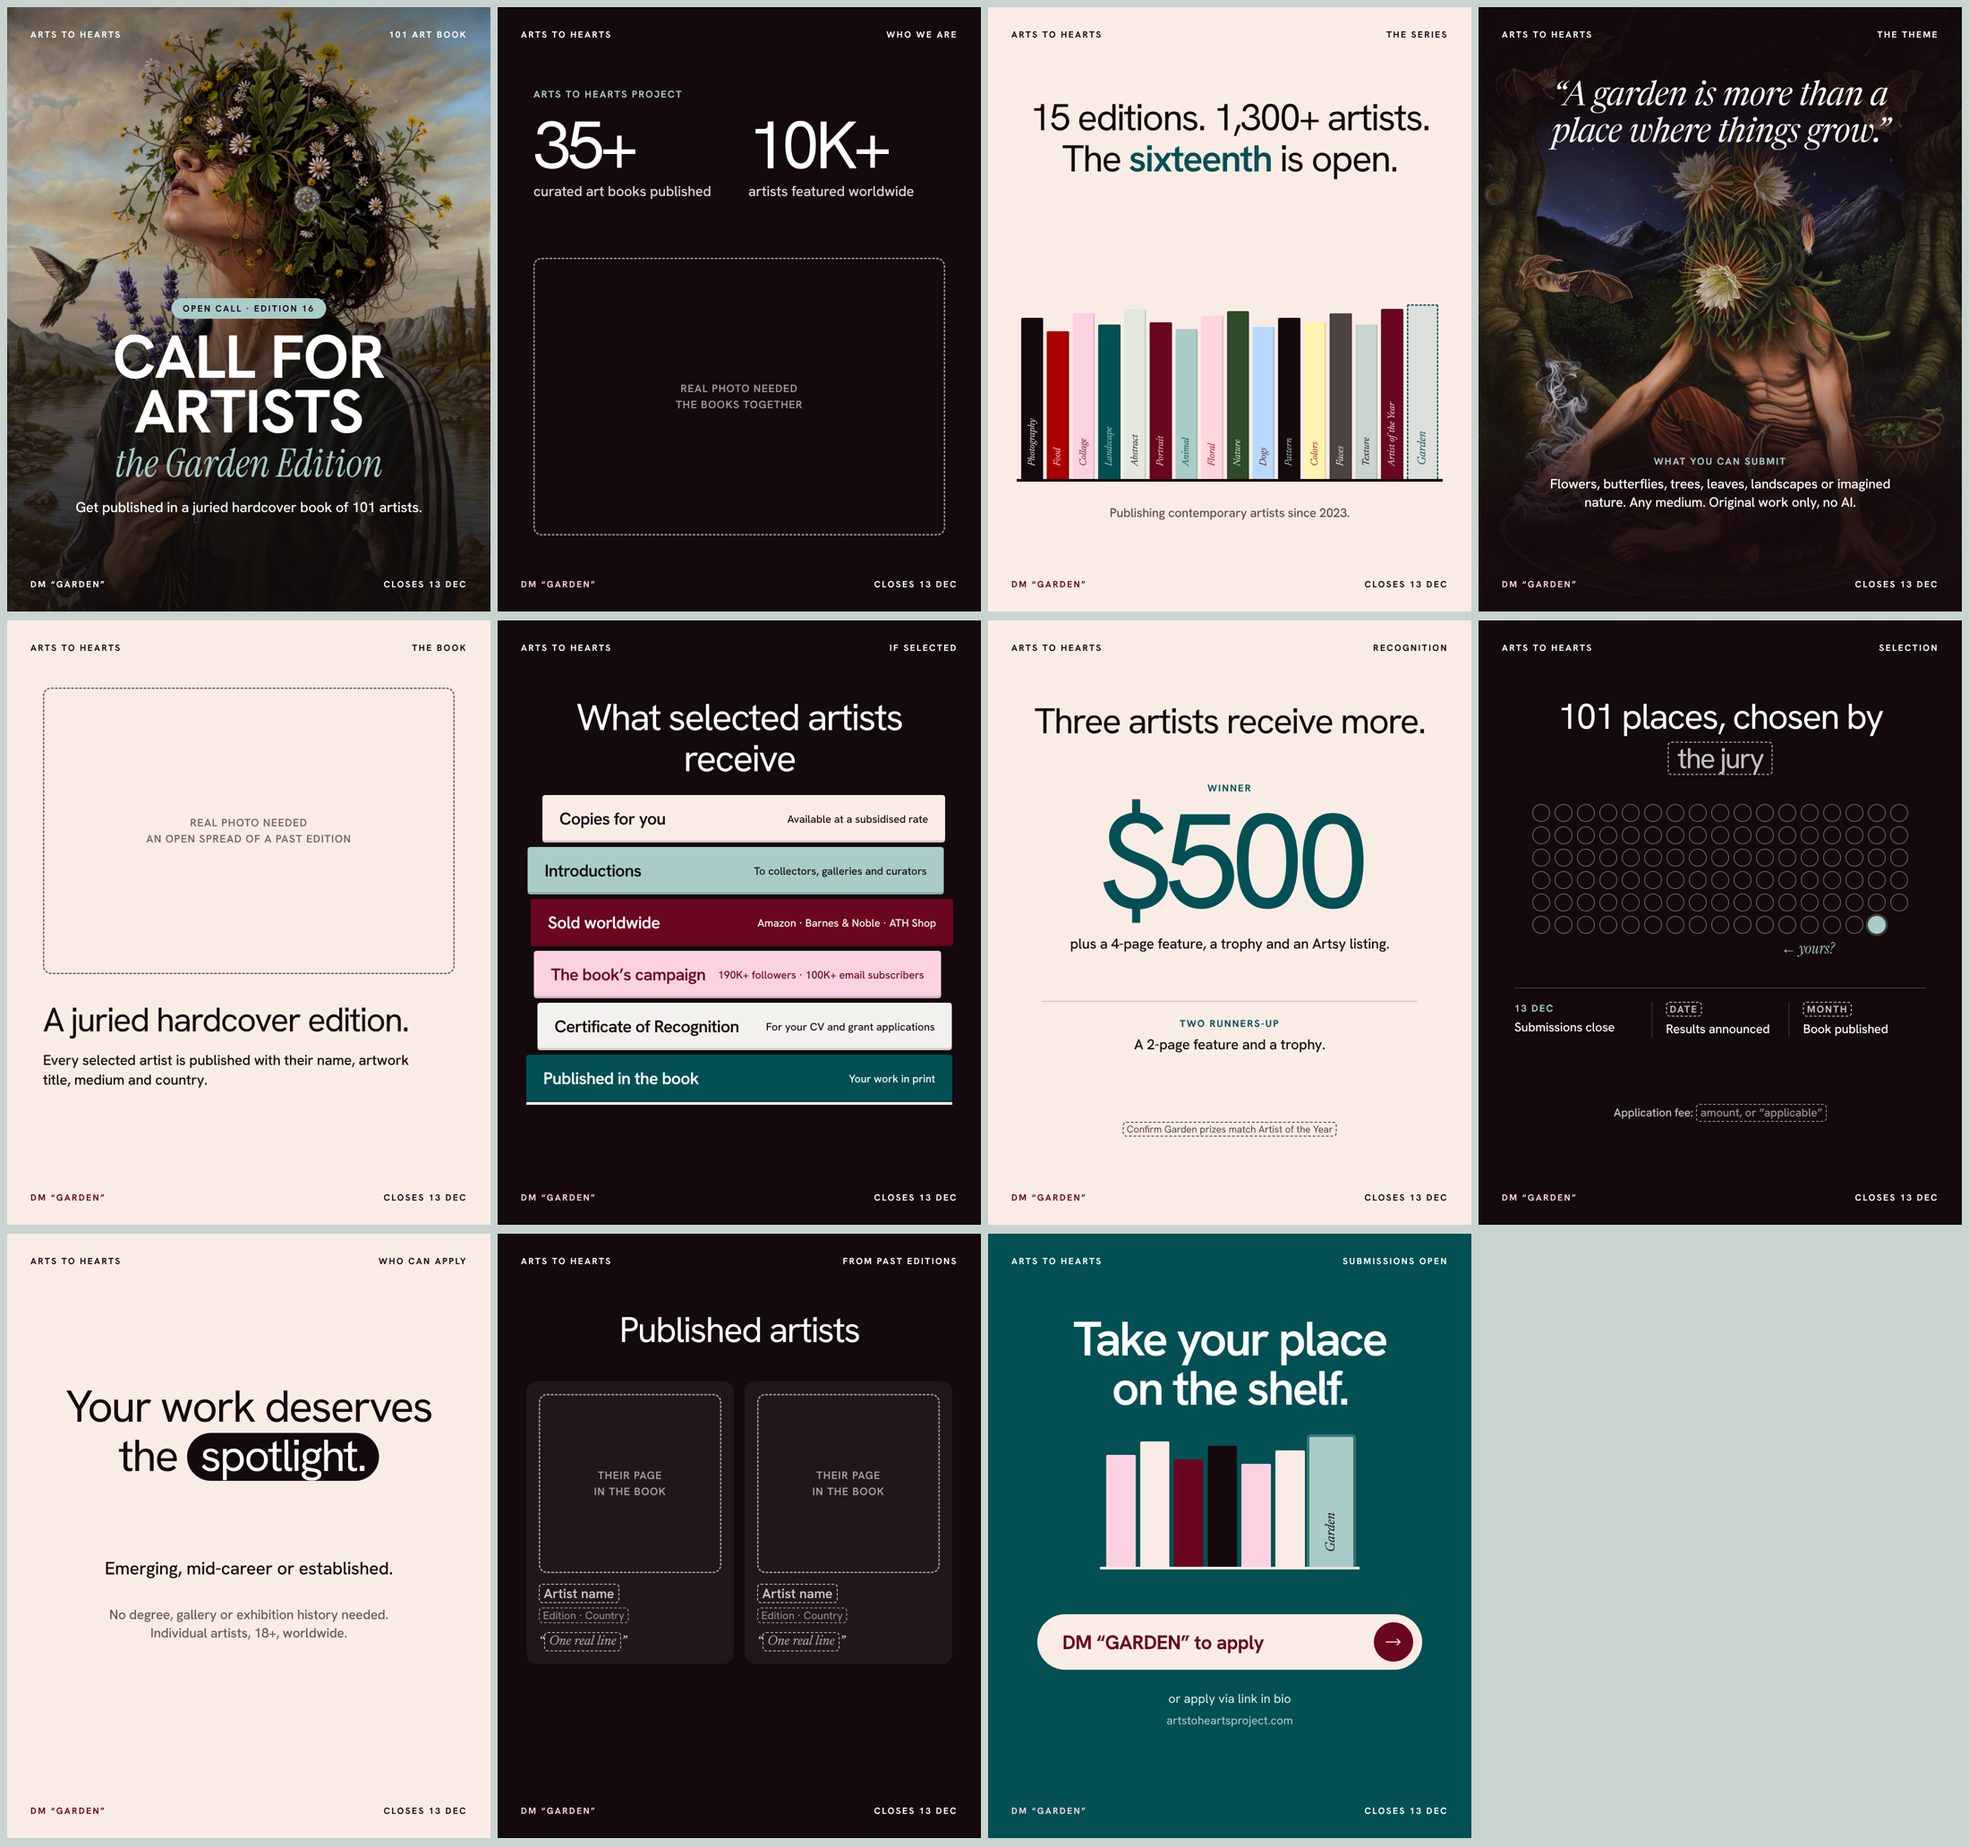
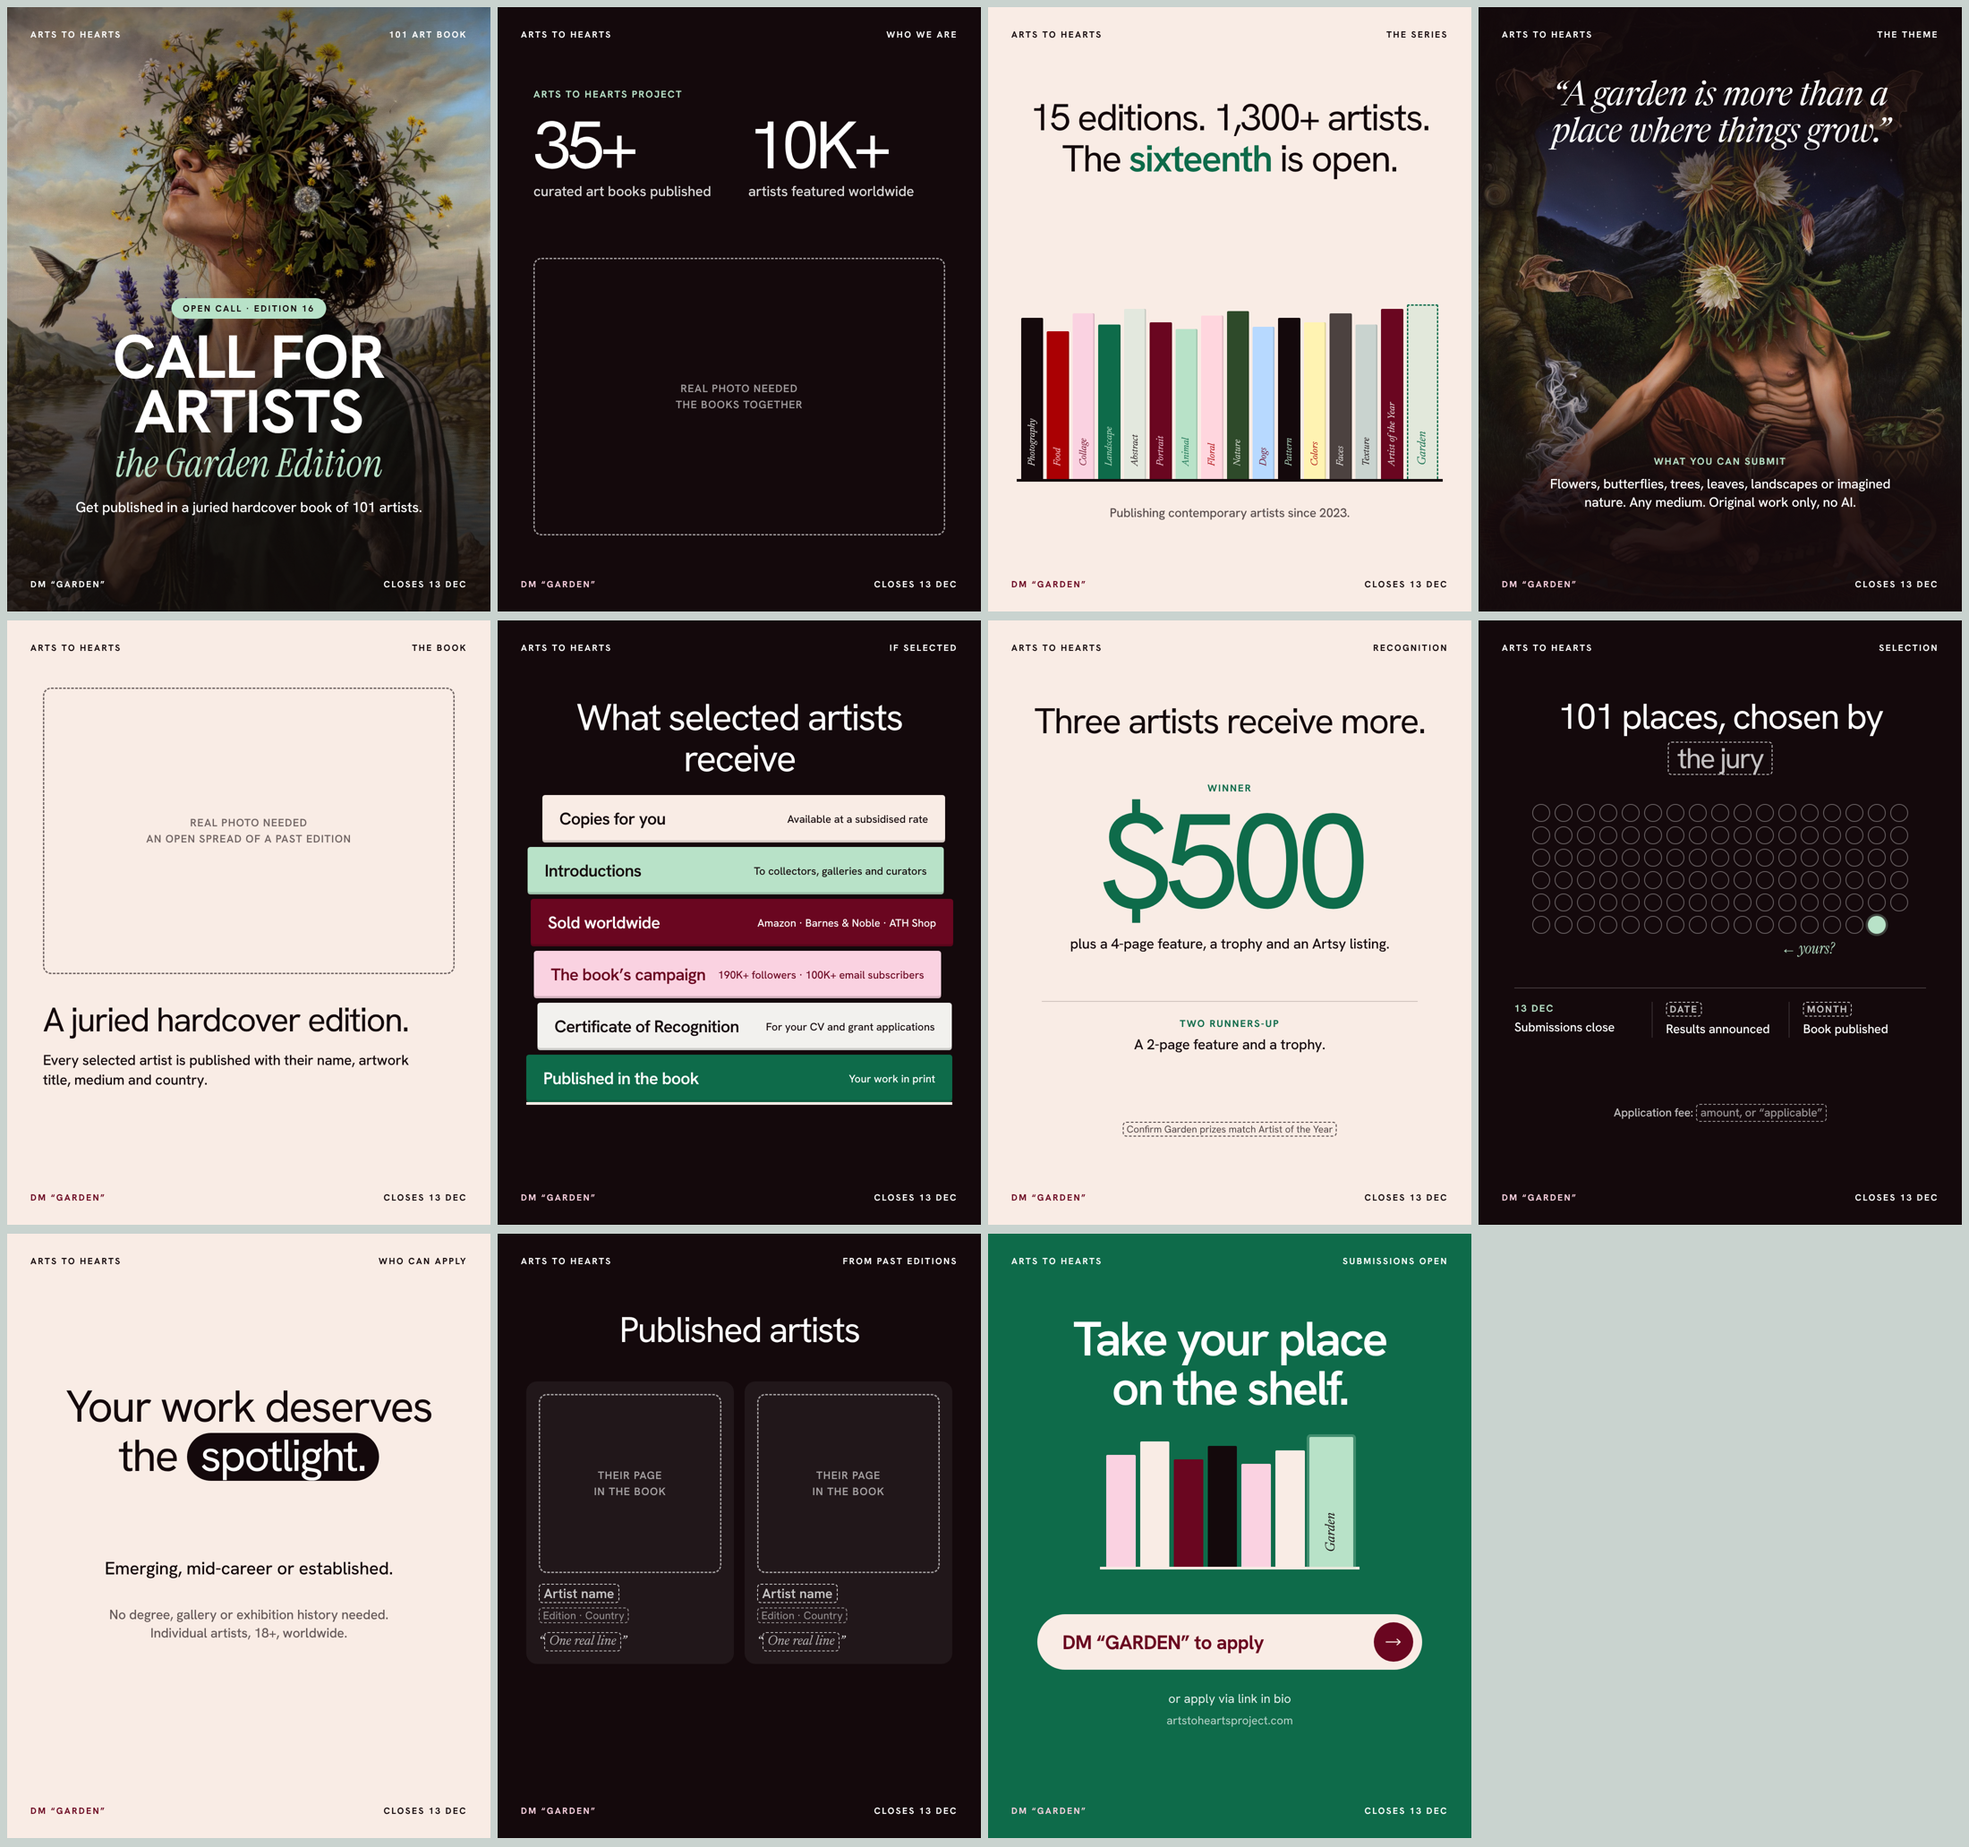
Garden launch: emerald green as the call colour
Claude-Session: https://claude.ai/code/session_01Bc4gkdxg6i3YRuybqzVB3k

diff --git a/design/campaigns/open-calls/launch-full.html b/design/campaigns/open-calls/launch-full.html
@@ -4,7 +4,7 @@
 @font-face{font-family:HG;src:url(fonts/ath/HankenGrotesk.woff2) format("woff2");font-weight:100 900}
 @font-face{font-family:NR;src:url(fonts/ath/Newsreader-Italic.woff2) format("woff2");font-style:italic;font-weight:200 800}
 @font-face{font-family:IS;src:url(fonts/InstrumentSerif-Italic.ttf) format("truetype");font-style:italic}
-:root{--ink:#14090C;--paper:#F9ECE5;--pet:#025054;--pi:#A9CCC8;--cream:#F9ECE5;--burg:#6A0620}
+:root{--ink:#14090C;--paper:#F9ECE5;--pet:#0E6B4A;--pi:#B8E2C8;--cream:#F9ECE5;--burg:#6A0620}
 body{margin:0;background:#C9D3CF;display:flex;flex-wrap:wrap;gap:40px;padding:40px}
 .s{position:relative;width:1080px;height:1350px;overflow:hidden;font-family:HG,sans-serif;-webkit-font-smoothing:antialiased}
 .s *{margin:0;box-sizing:border-box}
@@ -26,7 +26,7 @@ body{margin:0;background:#C9D3CF;display:flex;flex-wrap:wrap;gap:40px;padding:40
 const corners = (col, dmCol, tr) => `
   <p class="a cn" style="left:52px;top:48px;color:${col}">Arts to Hearts</p><p class="a cn" style="right:52px;top:48px;color:${col}">${tr}</p>
   <p class="a cn" style="left:52px;bottom:48px;color:${dmCol}">DM “GARDEN”</p><p class="a cn" style="right:52px;bottom:48px;color:${col}">Closes 13 Dec</p>`;
-const EDS=[['Photography','#14090C','#F2F1EE',360],['Food','#AA0003','#FFD6DE',330],['Collage','#FAD2E1','#6A0620',370],['Landscape','#025054','#A9CCC8',345],['Abstract','#E3E8DE','#14090C',380],['Portrait','#6A0620','#FAD2E1',350],['Animal','#A9CCC8','#025054',335],['Floral','#FFD6DE','#AA0003',365],['Nature','#2E4A2A','#E3E8DE',375],['Dogs','#B7D9FF','#6A0620',340],['Pattern','#14090C','#A9CCC8',360],['Colors','#FFF3B2','#AA0003',350],['Faces','#4C4240','#F2F1EE',370],['Texture','#C9D3CF','#14090C',345],['Artist of the Year','#6A0620','#F2F1EE',380]];
+const EDS=[['Photography','#14090C','#F2F1EE',360],['Food','#AA0003','#FFD6DE',330],['Collage','#FAD2E1','#6A0620',370],['Landscape','#0E6B4A','#B8E2C8',345],['Abstract','#E3E8DE','#14090C',380],['Portrait','#6A0620','#FAD2E1',350],['Animal','#B8E2C8','#0E6B4A',335],['Floral','#FFD6DE','#AA0003',365],['Nature','#2E4A2A','#E3E8DE',375],['Dogs','#B7D9FF','#6A0620',340],['Pattern','#14090C','#B8E2C8',360],['Colors','#FFF3B2','#AA0003',350],['Faces','#4C4240','#F2F1EE',370],['Texture','#C9D3CF','#14090C',345],['Artist of the Year','#6A0620','#F2F1EE',380]];
 const spineLab = (n,f,fs) => `<span style="position:absolute;left:50%;bottom:18px;transform:translateX(-50%) rotate(-90deg);white-space:nowrap;font-family:NR,serif;font-style:italic;font-size:${fs}px;width:0;color:${f}">${n}</span>`;
 const S = [];
 
@@ -58,7 +58,7 @@ S.push(`<div class="s" style="background:var(--paper);color:var(--ink)">
   <p class="a R c" style="left:80px;right:80px;top:200px;font-size:84px">15 editions. 1,300+ artists.<br>The <span style="color:var(--pet);font-weight:600">sixteenth</span> is open.</p>
   <div class="a" style="left:64px;right:64px;top:640px;height:420px;display:flex;align-items:flex-end;gap:8px;border-bottom:6px solid var(--ink);padding:0 10px">
    ${EDS.map(([n,b,f,h])=>`<div style="flex:1;height:${h}px;background:${b};border-radius:3px 3px 0 0;position:relative;box-shadow:inset -3px 0 0 rgba(0,0,0,.12)">${spineLab(n,f,22)}</div>`).join('')}
-   <div style="flex:1.3;height:390px;border:3px dashed var(--pet);border-bottom:none;border-radius:3px 3px 0 0;position:relative;background:rgba(169,204,200,.35)">${spineLab('Garden','#025054',26)}</div>
+   <div style="flex:1.3;height:390px;border:3px dashed var(--pet);border-bottom:none;border-radius:3px 3px 0 0;position:relative;background:rgba(184,226,200,.35)">${spineLab('Garden','#0E6B4A',26)}</div>
   </div>
   <p class="a c sub" style="left:0;right:0;top:1110px;font-size:28px;opacity:.7">Publishing contemporary artists since 2023.</p>
 </div>`);
@@ -84,11 +84,11 @@ S.push(`<div class="s" style="background:var(--paper);color:var(--ink)">
 // 6 · WHAT SELECTED ARTISTS RECEIVE (full list)
 const BOOKS = [
   ['Copies for you','Available at a subsidised rate','#F9ECE5','#14090C',900,10],
-  ['Introductions','To collectors, galleries and curators','#A9CCC8','#14090C',930,-8],
+  ['Introductions','To collectors, galleries and curators','#B8E2C8','#14090C',930,-8],
   ['Sold worldwide','Amazon · Barnes &amp; Noble · ATH Shop','#6A0620','#FFFFFF',944,6],
   ['The book’s campaign','190K+ followers · 100K+ email subscribers','#FAD2E1','#6A0620',910,-4],
   ['Certificate of Recognition','For your CV and grant applications','#F2F1EE','#14090C',926,12],
-  ['Published in the book','Your work in print','#025054','#FFFFFF',952,0]];
+  ['Published in the book','Your work in print','#0E6B4A','#FFFFFF',952,0]];
 S.push(`<div class="s" style="background:var(--ink);color:#fff">
   ${corners('#fff','#FAD2E1','If selected')}
   <p class="a R c" style="left:80px;right:80px;top:170px;font-size:84px">What selected artists receive</p>
@@ -116,8 +116,8 @@ S.push(`<div class="s" style="background:var(--ink);color:#fff">
   ${corners('#fff','#FAD2E1','Selection')}
   <p class="a R c" style="left:80px;right:80px;top:170px;font-size:80px">101 places, chosen by<br><span class="gap" style="font-size:64px">the jury</span></p>
   <div class="a" style="left:120px;right:120px;top:410px;display:grid;grid-template-columns:repeat(17,1fr);gap:10px">
-   ${Array.from({length:101},(_,i)=> i===100 ? '<div style="aspect-ratio:1;border-radius:50%;background:#A9CCC8;box-shadow:0 0 0 5px rgba(169,204,200,.25)"></div>' : '<div style="aspect-ratio:1;border-radius:50%;border:2px solid rgba(255,255,255,.35)"></div>').join('')}
-   <p style="grid-column:12/18;font-family:IS,serif;font-style:italic;font-size:34px;color:#A9CCC8;align-self:center;padding-left:6px">&larr; yours?</p>
+   ${Array.from({length:101},(_,i)=> i===100 ? '<div style="aspect-ratio:1;border-radius:50%;background:#B8E2C8;box-shadow:0 0 0 5px rgba(184,226,200,.25)"></div>' : '<div style="aspect-ratio:1;border-radius:50%;border:2px solid rgba(255,255,255,.35)"></div>').join('')}
+   <p style="grid-column:12/18;font-family:IS,serif;font-style:italic;font-size:34px;color:#B8E2C8;align-self:center;padding-left:6px">&larr; yours?</p>
   </div>
   <div class="a" style="left:80px;right:80px;top:820px;display:grid;grid-template-columns:repeat(3,1fr);border-top:2px solid rgba(255,255,255,.2);padding-top:30px">
     <div><p class="lab" style="color:var(--pi)">13 Dec</p><p class="sub" style="font-size:28px;margin-top:8px">Submissions close</p></div>
@@ -153,7 +153,7 @@ S.push(`<div class="s" style="background:var(--pet);color:#fff">
   <p class="a H c" style="left:60px;right:60px;top:180px;font-size:108px">Take your place<br>on the shelf.</p>
   <div class="a" style="left:250px;right:250px;top:450px;height:300px;display:flex;align-items:flex-end;gap:10px;border-bottom:6px solid var(--paper);padding:0 14px">
    ${[['#FAD2E1',250],['#F9ECE5',280],['#6A0620',240],['#14090C',270],['#FAD2E1',230],['#F9ECE5',260]].map(([c,h])=>`<div style="flex:1;height:${h}px;background:${c};border-radius:3px 3px 0 0"></div>`).join('')}
-   <div style="flex:1.5;height:290px;background:var(--pi);border-radius:3px 3px 0 0;box-shadow:0 0 0 6px rgba(169,204,200,.3);position:relative">${spineLab('Garden','#14090C',30)}</div>
+   <div style="flex:1.5;height:290px;background:var(--pi);border-radius:3px 3px 0 0;box-shadow:0 0 0 6px rgba(184,226,200,.3);position:relative">${spineLab('Garden','#14090C',30)}</div>
   </div>
   <div class="a" style="left:110px;right:110px;top:850px;height:124px;border-radius:999px;background:var(--cream);color:var(--burg);display:flex;align-items:center;justify-content:space-between;padding:0 20px 0 56px">
    <span style="font-size:44px;font-weight:700;letter-spacing:-.02em">DM “GARDEN” to apply</span>
